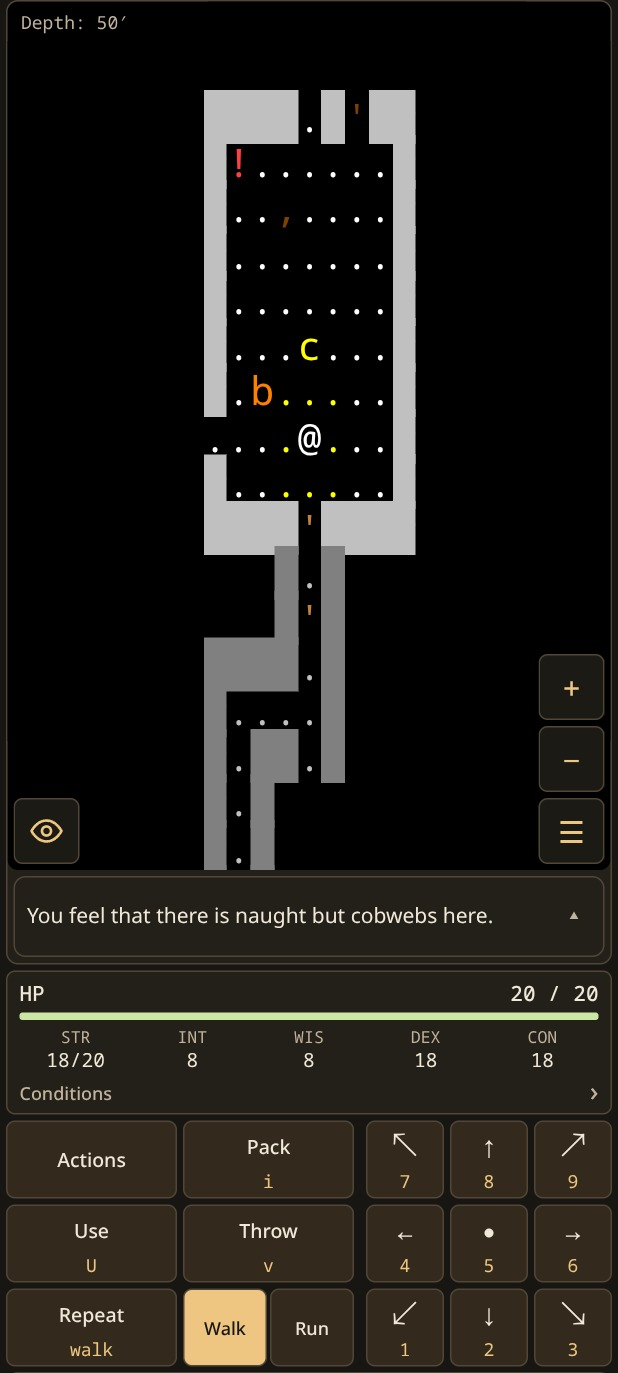
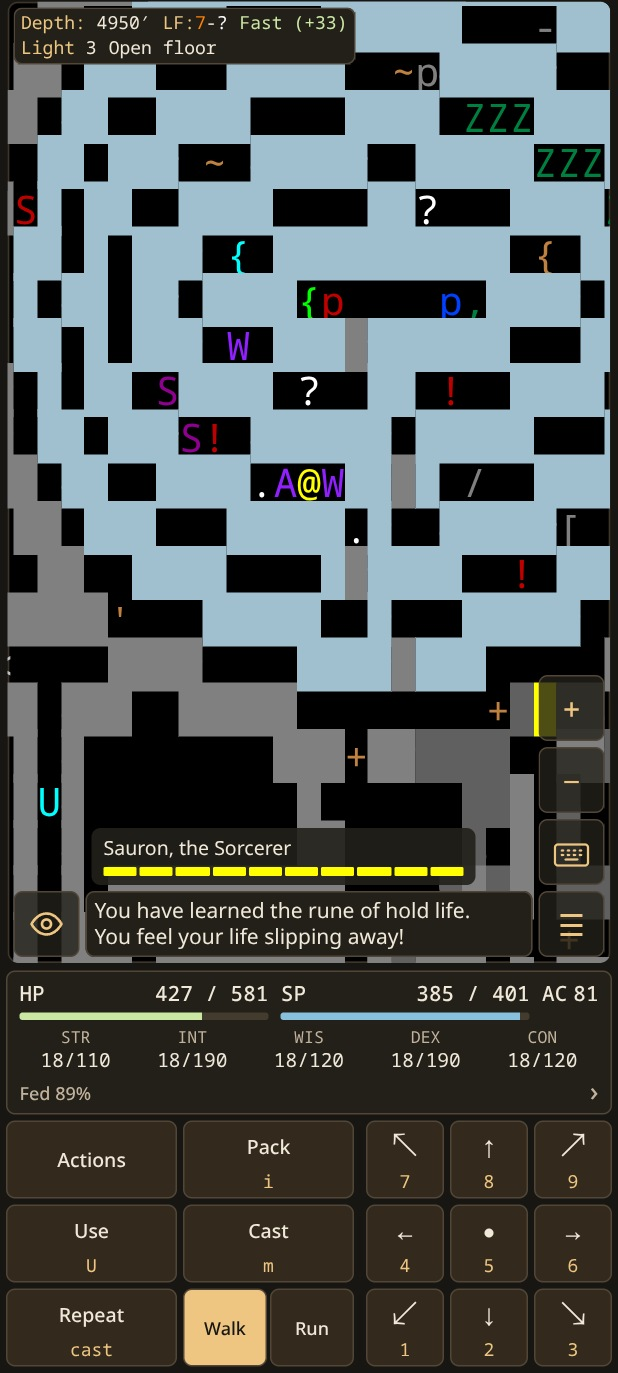
docs: refresh the README gameplay gallery

diff --git a/README.md b/README.md
@@ -6,8 +6,14 @@ PocketBand’s ideas were inspired by [PocketZot](https://github.com/pocketzot/p
 
 <p>
   <a href="screenshots/hello.jpg"><img src="screenshots/hello.jpg" width="220" alt="PocketBand welcome screen"></a>
-  <a href="screenshots/ascii.jpg"><img src="screenshots/ascii.jpg" width="220" alt="PocketBand dungeon in ASCII mode"></a>
-  <a href="screenshots/tiles.jpg"><img src="screenshots/tiles.jpg" width="220" alt="PocketBand dungeon with David Gervais' tiles"></a>
+  <a href="screenshots/spellbook.jpg"><img src="screenshots/spellbook.jpg" width="220" alt="Browsing Light Room with the town map above the spellbook"></a>
+  <a href="screenshots/character.jpg"><img src="screenshots/character.jpg" width="220" alt="Elenor’s character sheet with stats and conditions"></a>
+</p>
+
+<p>
+  <a href="screenshots/ascii.jpg"><img src="screenshots/ascii.jpg" width="220" alt="A High-Elf Mage faces Sauron at 4,950 feet in ASCII mode"></a>
+  <a href="screenshots/tiles.jpg"><img src="screenshots/tiles.jpg" width="220" alt="The same encounter with Sauron shown with David Gervais' tiles"></a>
+  <a href="screenshots/victory.jpg"><img src="screenshots/victory.jpg" width="220" alt="Dáin, a level 50 Dwarf Paladin, crowned following victory over Morgoth"></a>
 </p>
 
 ## Play on GitHub Pages
